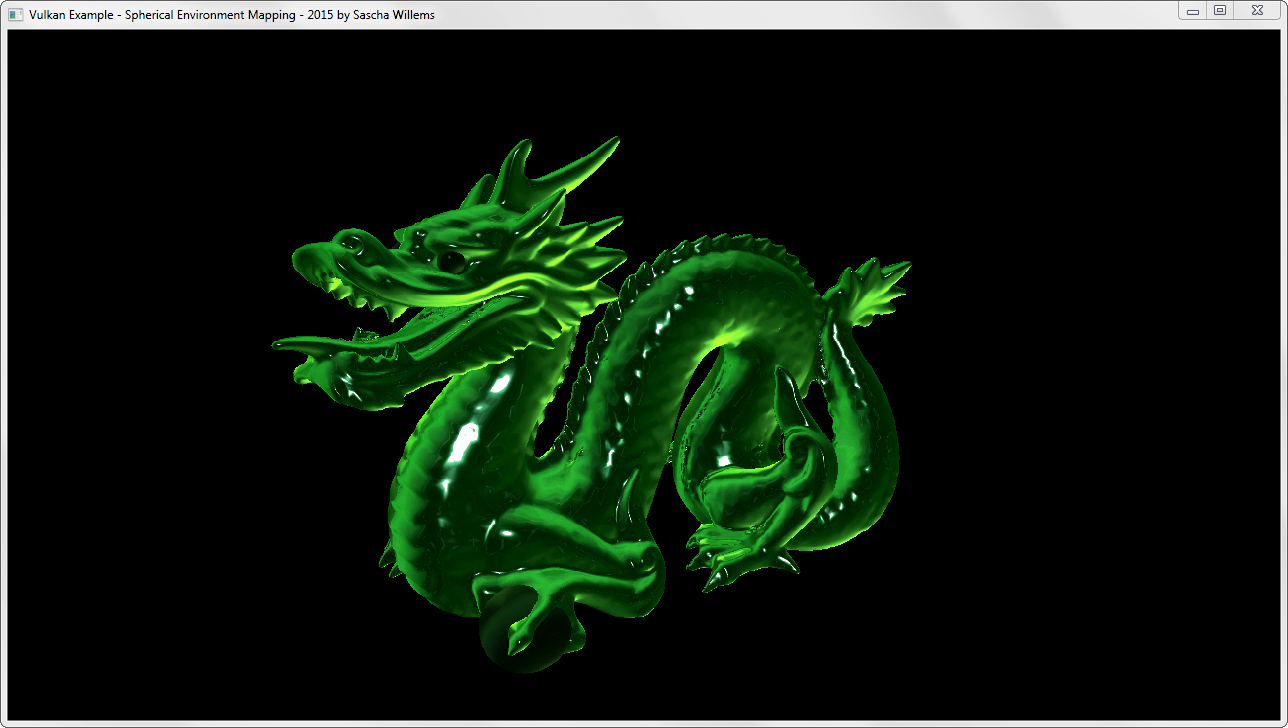
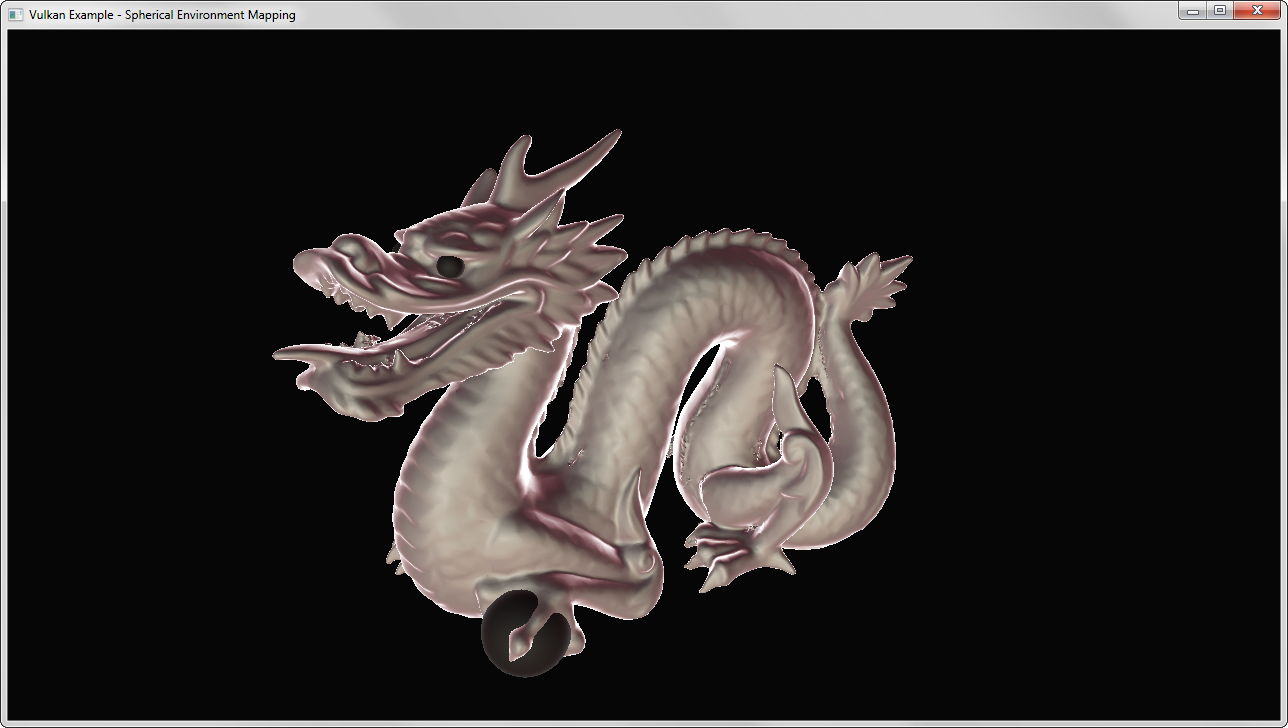
Updated readme, new screenshot for spherical environment mapping example

diff --git a/README.md b/README.md
@@ -27,11 +27,7 @@ Precompiled binaries for Windows (x64), Linux (x64) and Android can be [found he
 Note that these only contain the binaries, you still need the repository for the data (shaders, models, textures) and put the binaries into to bin subfolder.
 
 ## Vendor support
-The examples have been tested on different vendors, but since **most drivers are beta** not all examples may work with all vendors.
-
-Currently all examples should run on NVIDIA, and most of them on AMD too. Demos that currently won't work with one IHV will be fixed as soon as possible.
-
-The android examples have only been tested on NVIDIA hardware yet.
+The examples have been tested to work on recent NVIDIA and AMD GPUs, but since **most drivers are beta** not all examples may work with all vendors.
 
 ## API-Version
 
@@ -164,7 +160,9 @@ The cube map faces contain the distances from the light sources, which are then 
 ## [Spherical environment mapping](sphericalenvmapping/)
 <img src="./screenshots/spherical_env_mapping.png" height="96px" align="right">
 
-Uses a matcap texture (spherical reflection map) to fake complex lighting. It's based on [this article](https://github.com/spite/spherical-environment-mapping).
+Uses a (spherical) material capture texture containing environment lighting and reflection information to fake complex lighting. The example also uses a texture array to store (and select) several material caps that can be toggled at runtime.
+
+ The technique is based on [this article](https://github.com/spite/spherical-environment-mapping).
 <br><br>
 
 ## [Parallax mapping](parallaxmapping/)
@@ -182,7 +180,7 @@ Generating curved PN-Triangles on the GPU using tessellation shaders to add deta
 ## [(Tessellation shader) Displacement mapping](tessellation/)
 <img src="./screenshots/tess_displacement.jpg" height="96px" align="right">
 
-Uses tessellation shaders to generate and displace geometry based on a displacement map (heightmap).
+Uses tessellation shaders to generate additional details and displace geometry based on a displacement map (heightmap).
 <br><br>
 
 ## [(Compute shader) Particle system](computeshader/)
